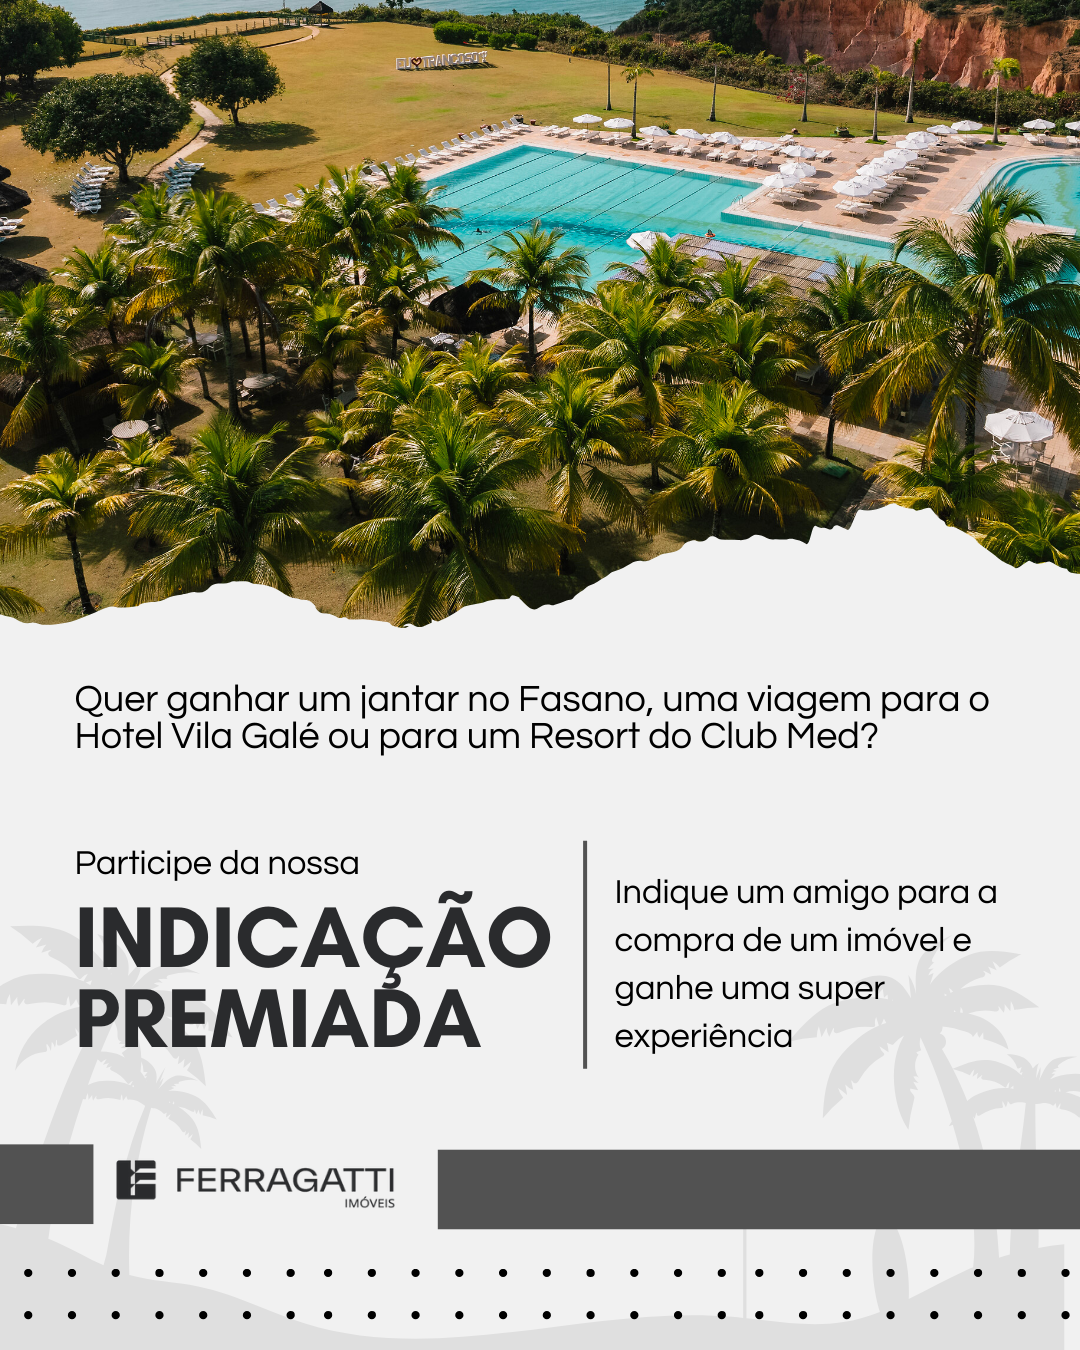
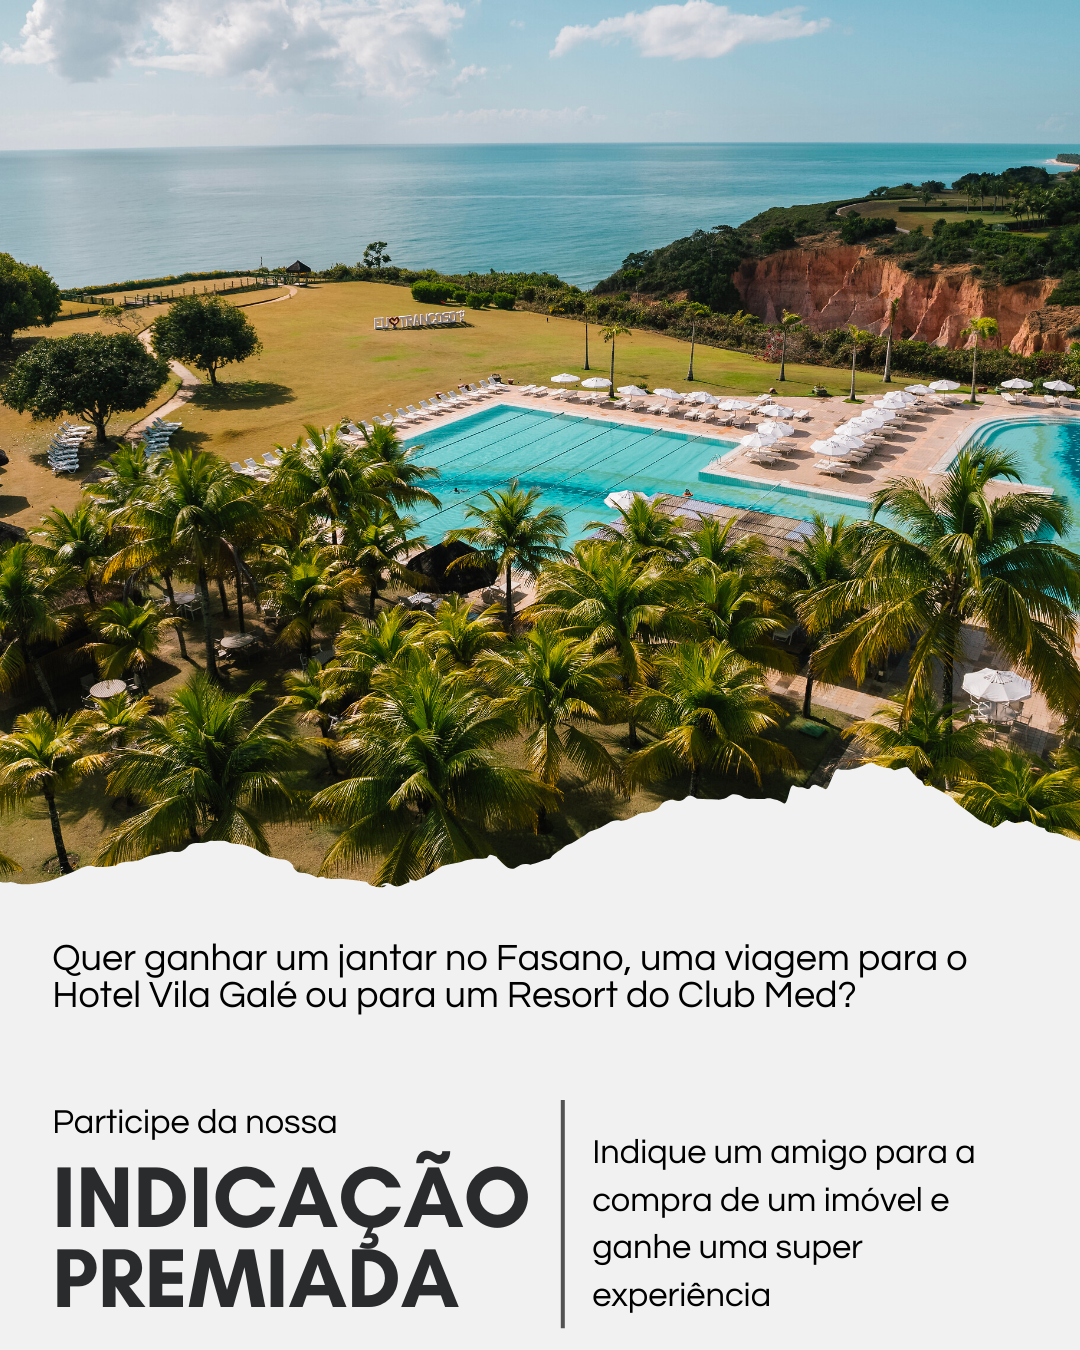
troqueidenovo

diff --git a/index.html b/index.html
@@ -107,7 +107,7 @@ class="w3-container w3-top w3-hide-large  w3-xlarge ;">
   <!-- Photo grid (modal) -->
  <div>
    <img
-   src="Indicação Premiada (13).png" alt="flyer" style="width: 100%; margin-top: 300px;">
+   src="Indicação Premiada (13).png" alt="flyer" style="width: 100%; margin-top: 30px;">
  </div>
 
 
